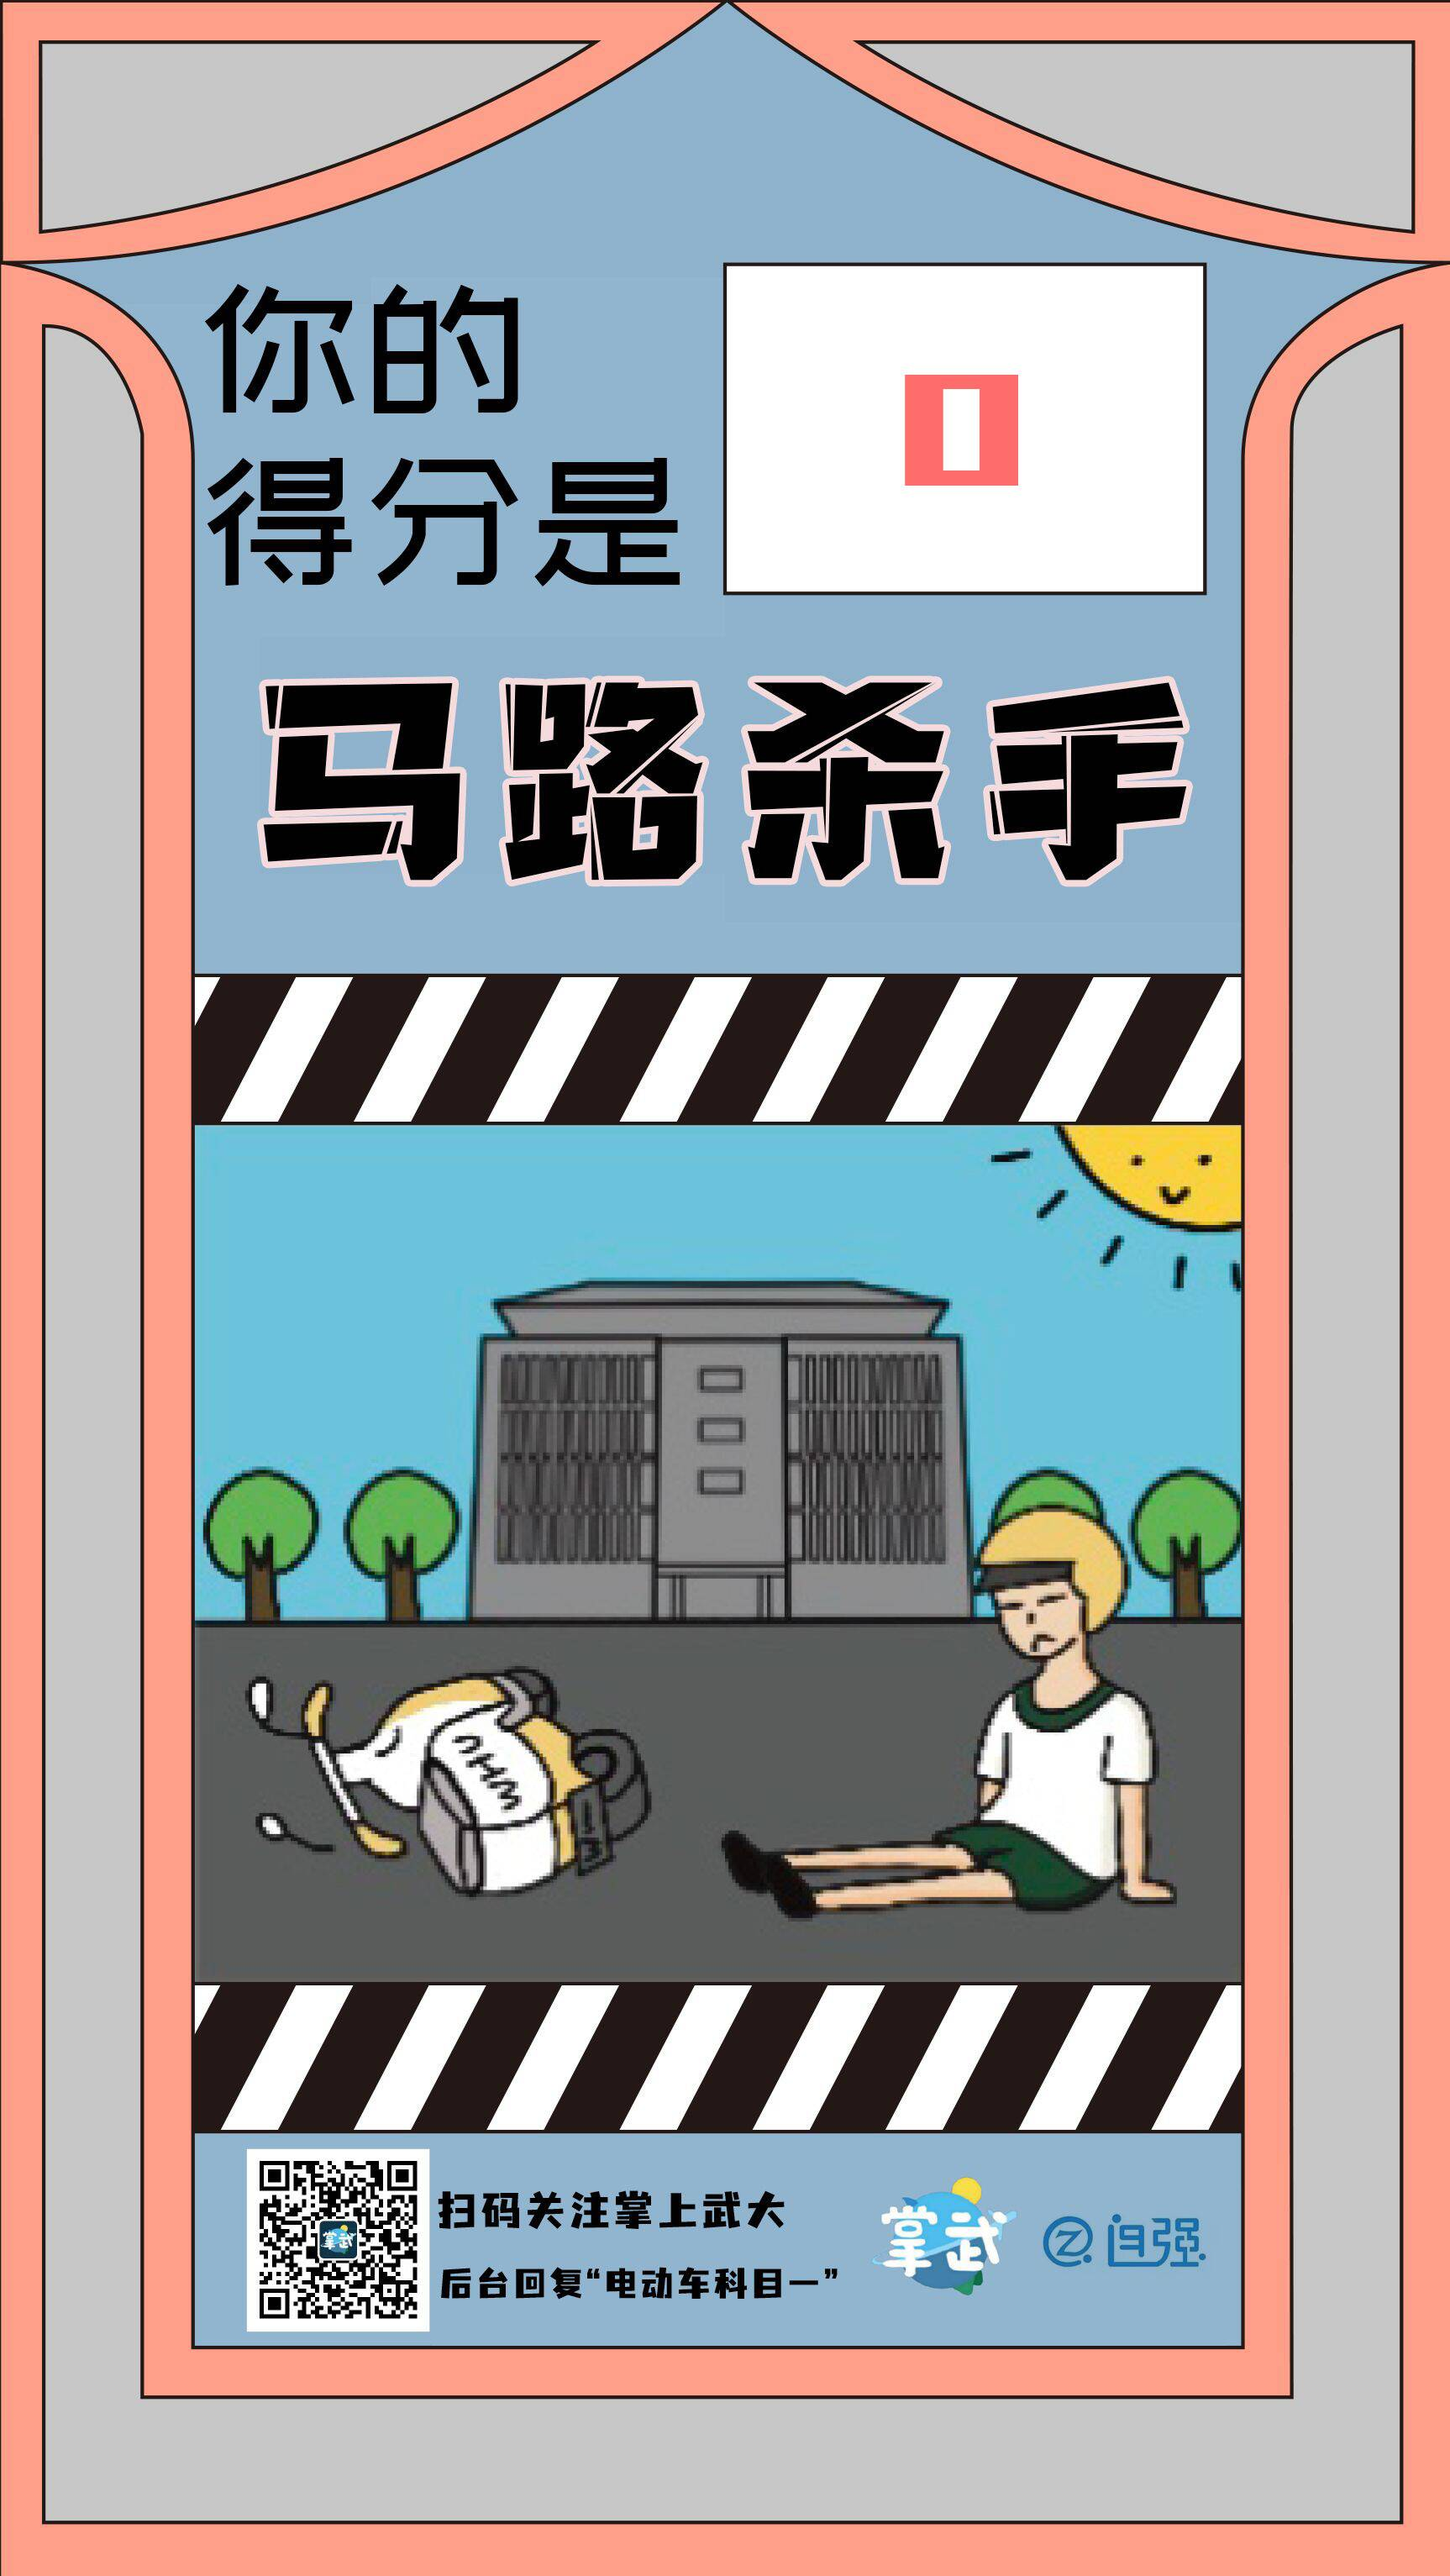
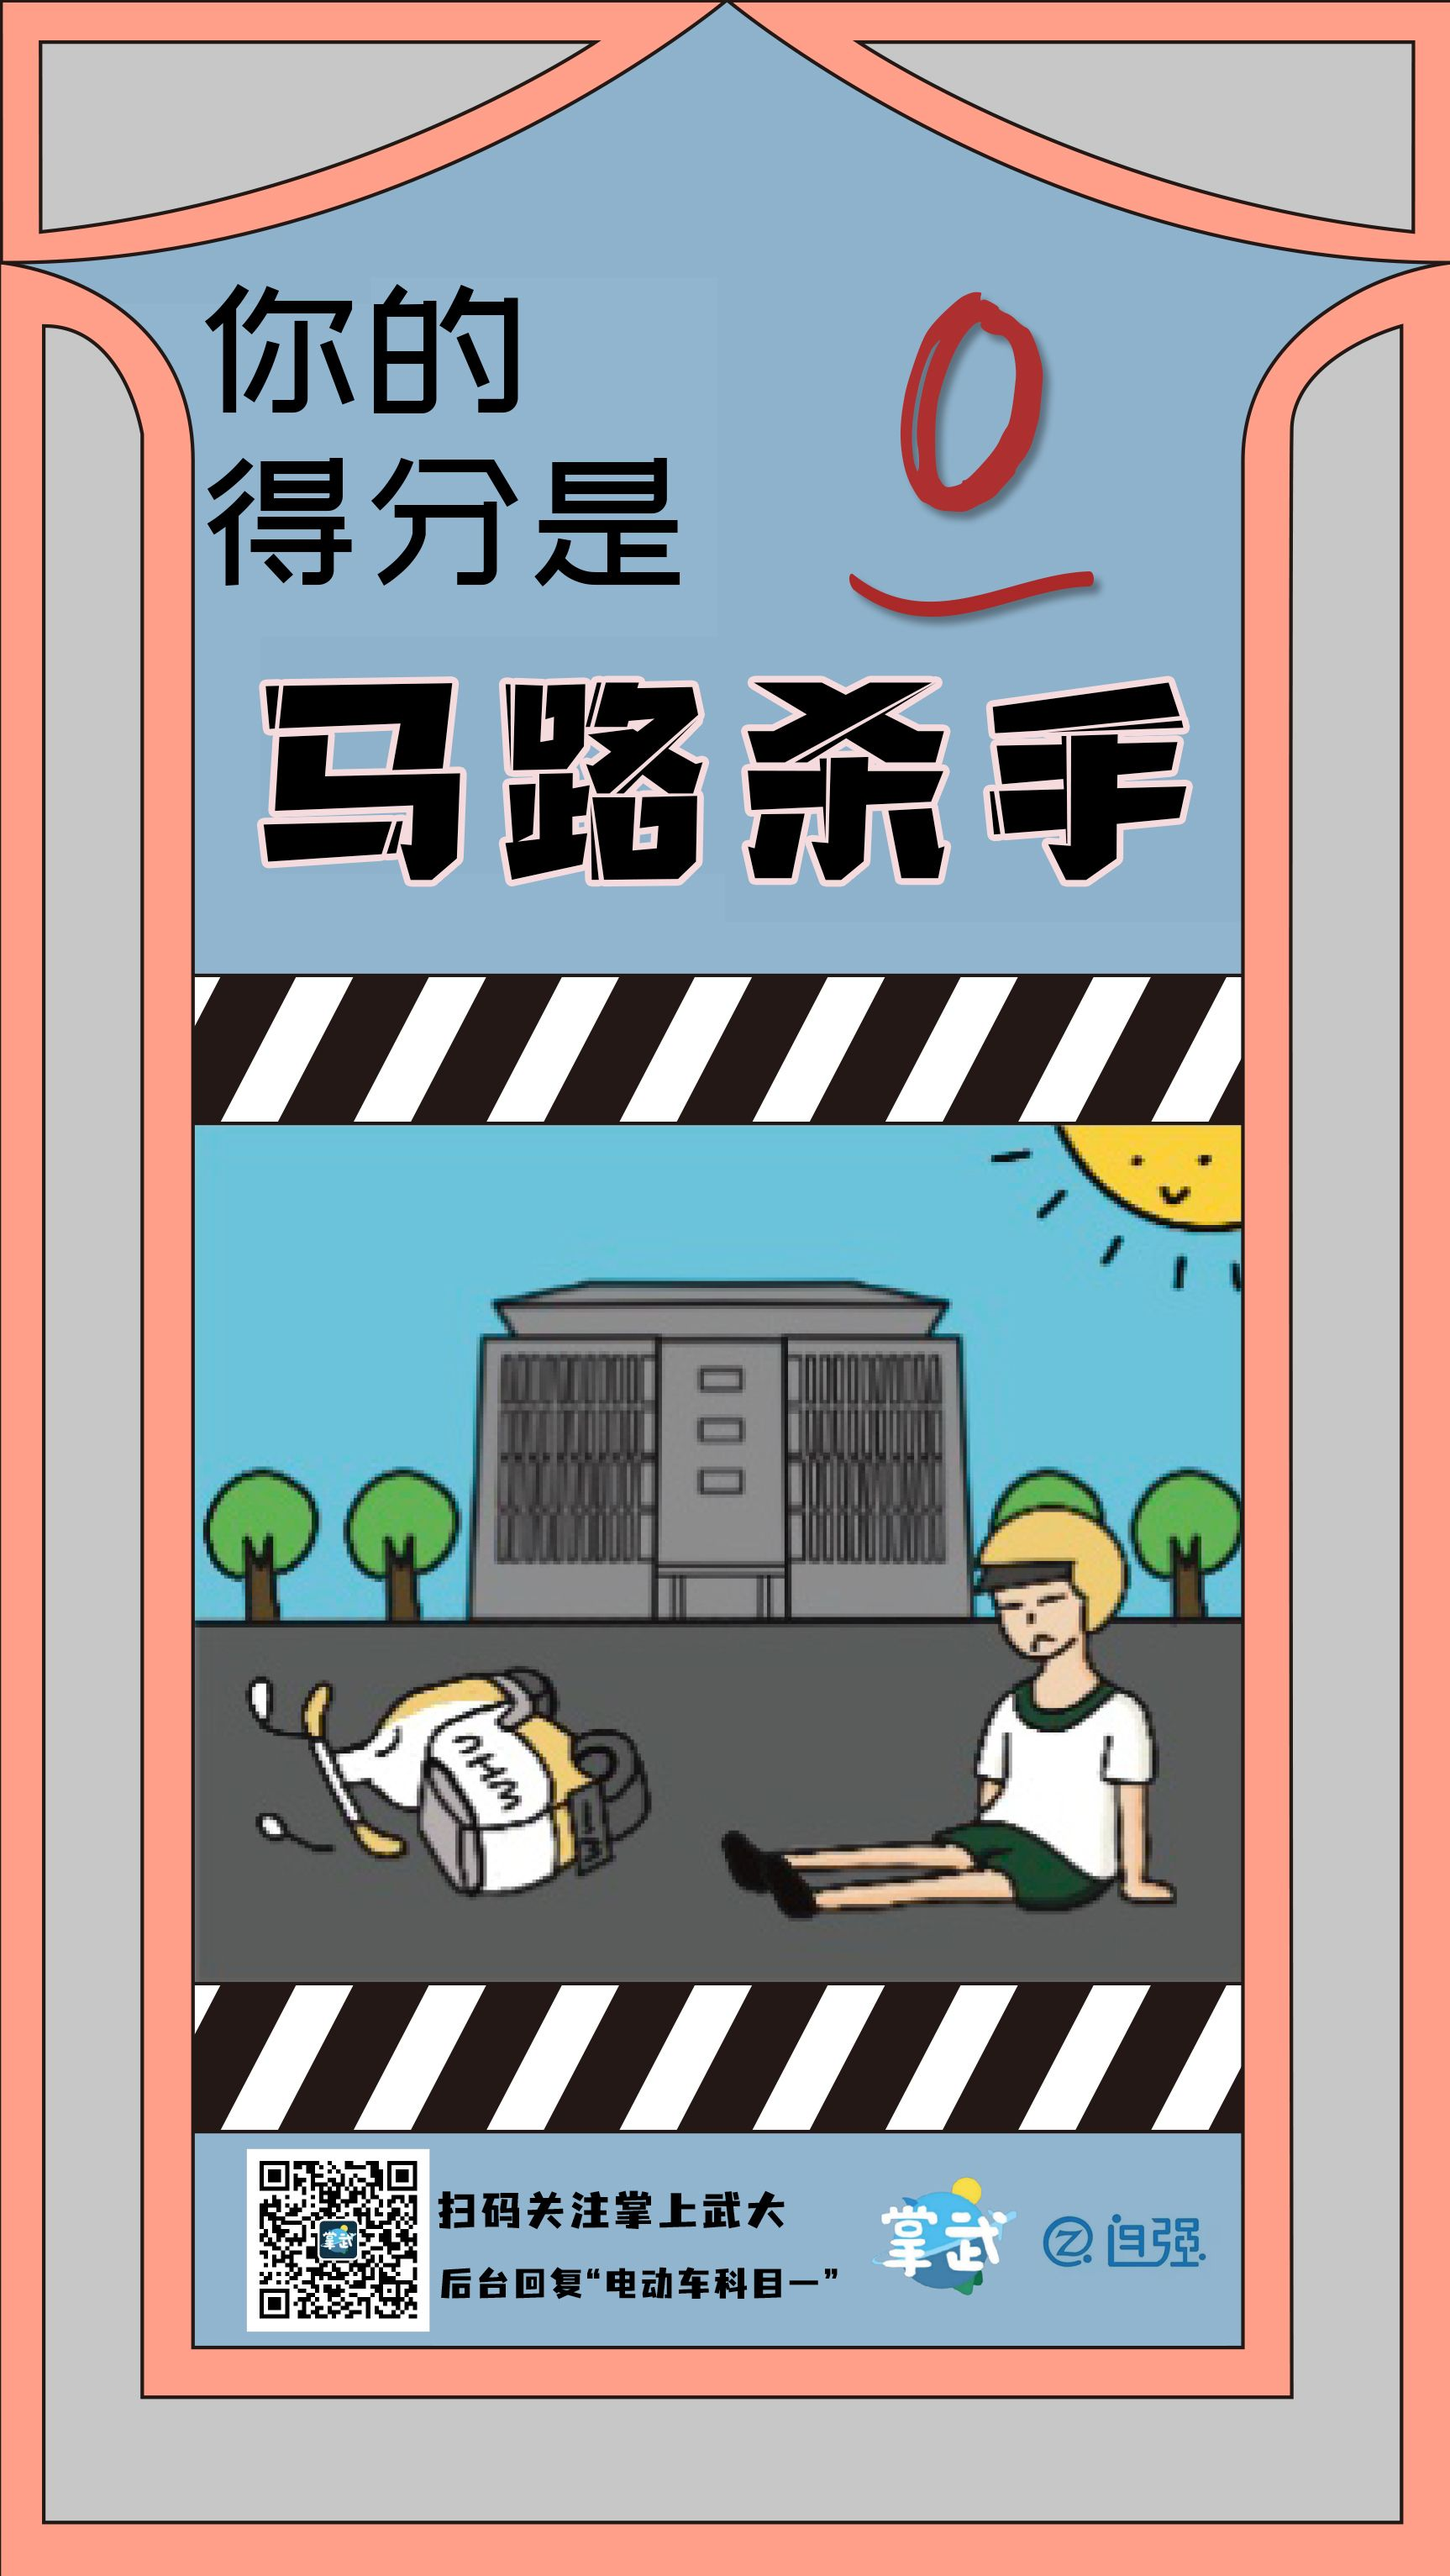
style: 重新压缩字体，修改结尾图片

Changed region(s): [[0.4913, 0.093, 0.8598, 0.2479]]

diff --git a/src/components/Main.vue b/src/components/Main.vue
@@ -108,7 +108,7 @@ export default {
     },
     calcQuestionResult (res) {
       this.score += res ? 10 : 0
-      if (this.score >= 80 && this.score < 100) {
+      if (this.score >= 90 && this.score < 100) {
         // 大于等于 90 分且不到 100 分时显示“新手上路”
         this.endingImgPrefix = '/static/images/scores/xssl_'
       } else if (this.score === 100) {
